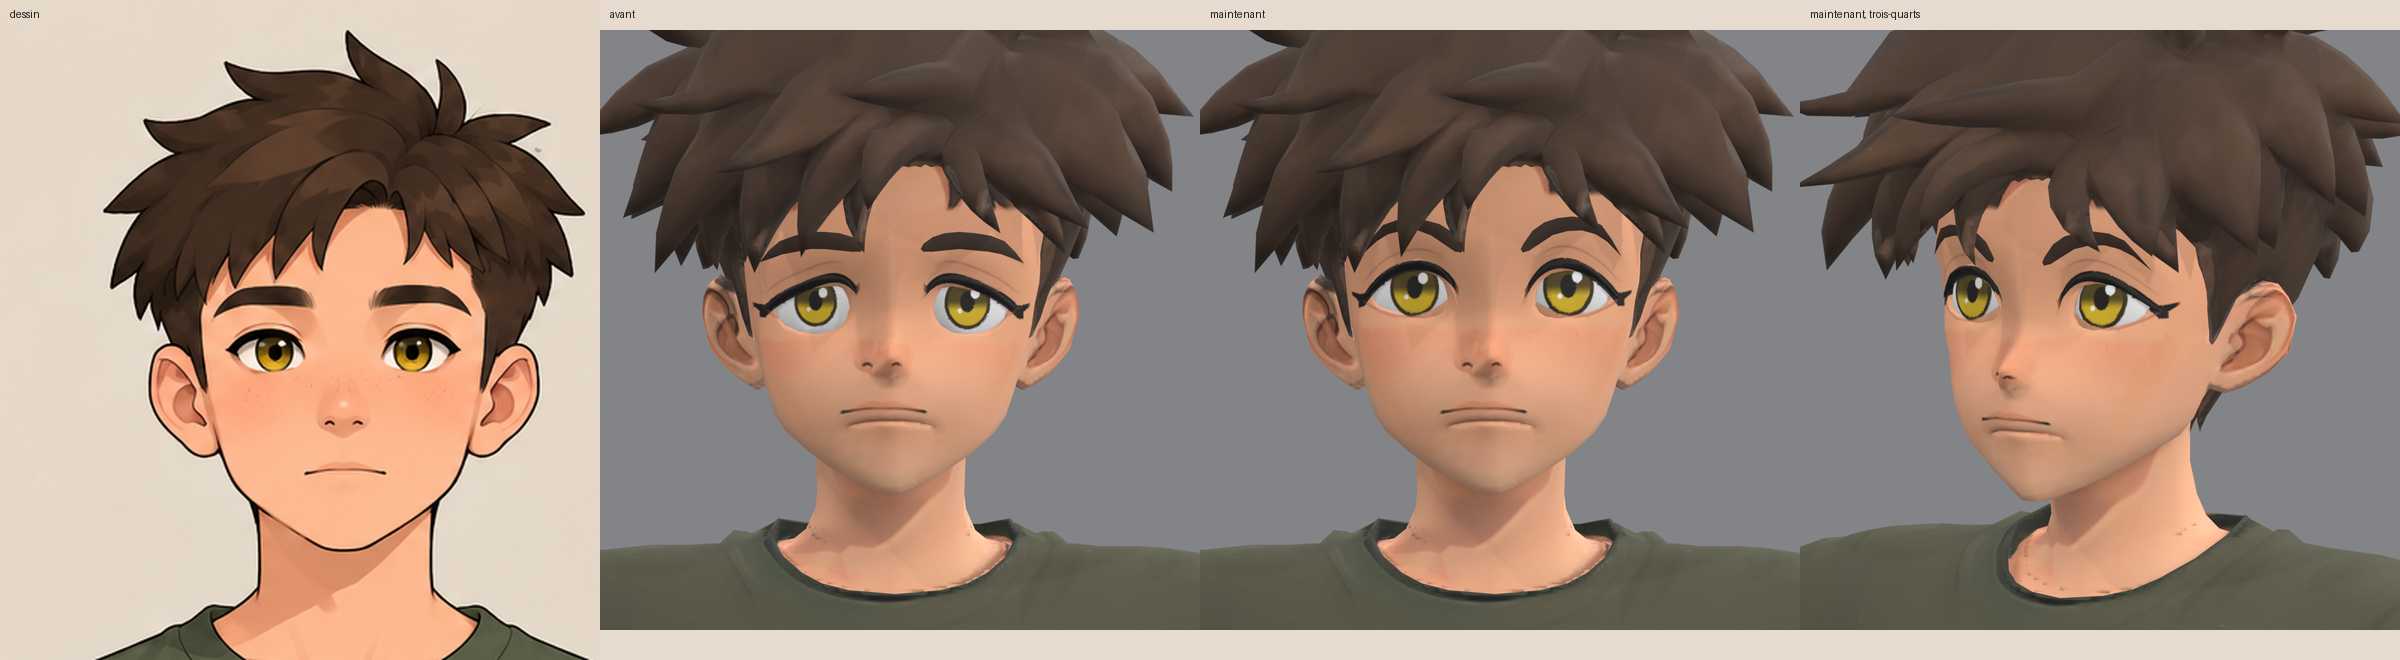
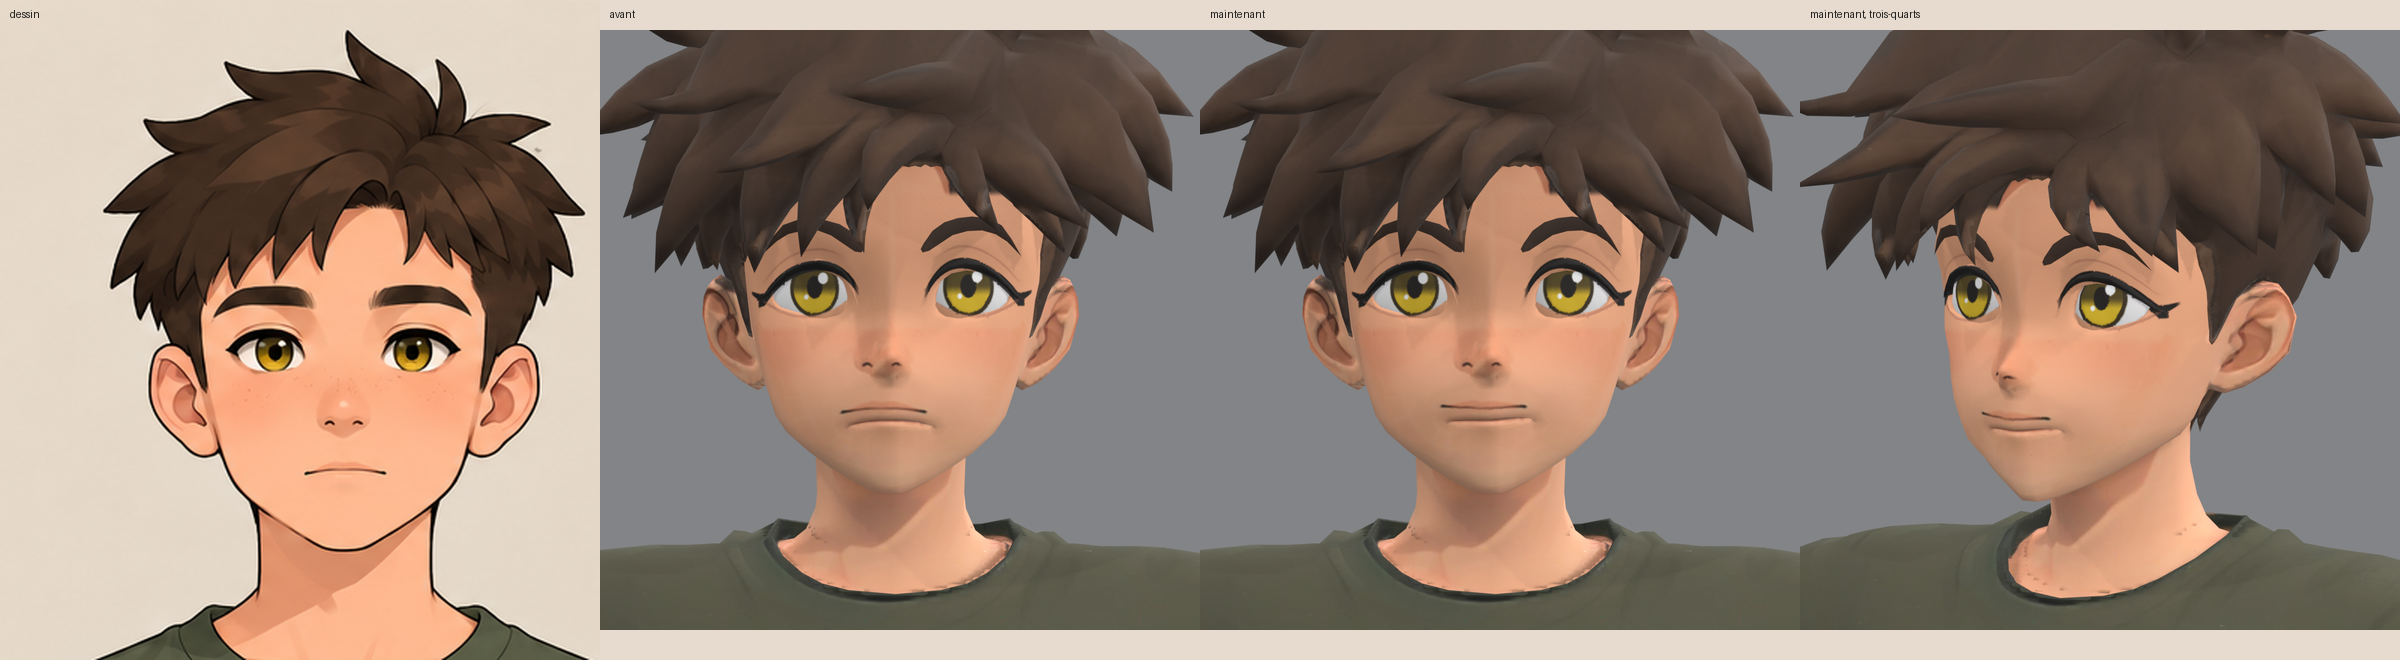
The boy's mouth corners raised: the lower lip and the drawn line no longer droop
Tripo sculpted the lower lip as an arc whose ends drop about 1.6 mm below its middle, and the mouth line projected
from the drawing ends in small downward hooks; together they read as a pout. mouth.py lifts the face around the
mouth corners by up to 2.5 mm, nothing at the middle, fading into the cheeks and above and below the lips, so the lip
is level and the line turns slightly up. mouth_closeup.py renders the mouth for review.

Changed region(s): [[0.3125, 0.303, 0.4375, 0.5152], [0.5938, 0.6061, 0.6562, 0.6364], [0.8438, 0.6364, 0.875, 0.6667]]

diff --git a/games/haras_valley/assets/characters/tools/cleanup_face_hair.py b/games/haras_valley/assets/characters/tools/cleanup_face_hair.py
@@ -4,7 +4,7 @@
     --input model-r03/raw/output_model_url.fbx --references references --output cleanup-r01
 
 Tripo's texture made the face older and tanner than the drawings (darker skin, no blush, small murky eyes, heavy
-brows) and its hair shorter and greyer, and its eyes slope down toward the outside, which reads as sad. Six fixes, textures and vertices only, no retopology:
+brows) and its hair shorter and greyer, and its eyes and mouth droop at the outer ends, which reads as sad. Seven fixes, textures and vertices only, no retopology:
 
 1. Face projection. The front portrait (`--face`, painted by tools/face_portrait.py; without it the face sheet's
    top-left cell) is projected onto the face with the affine map that puts its irises and mouth line (found in the
@@ -26,6 +26,8 @@ brows) and its hair shorter and greyer, and its eyes slope down toward the outsi
 6. Eyes and brows. The projected drawing's eyes do not fit Tripo's sculpted sockets, so eyes.py paints clean cel
    eyes onto the eyeballs inside each reshaped socket's rim, colours the brow strips, clears Tripo's eye paint, gloss
    and normal detail around them, and the cornea discs are removed (see eyes.py).
+7. Mouth corners. The face around the mouth corners rises by up to MOUTH_RISE, nothing at the middle, fading into the
+   cheeks, so the lower lip and the painted line no longer droop at the ends (mouth.py).
 
 The output is a .blend with the four texture maps packed, a GLB beside it and cleanup.json with the measurements.
 """
@@ -41,6 +43,7 @@ import numpy as np
 
 sys.path.insert(0, str(Path(__file__).resolve().parent))   # Blender's --python does not add the script's folder
 import eyes  # noqa: E402
+import mouth  # noqa: E402
 
 SHEET_CELL = (0, 0, 512, 512)          # the front view in the face sheet
 HEAD_Z = 0.27                          # above this: head and neck
@@ -51,6 +54,8 @@ CHIN_FADE = (0.324, 0.338)             # z over which it fades out above the chi
 HAIR_STRETCH = 0.40
 FRINGE_DROOP = 0.35
 EYE_TILT_DEGREES = 8.0                 # outer corners up: from Tripo's 12 degree droop to the drawing's 4
+MOUTH_Z, MOUTH_HALF_WIDTH = 0.338, 0.016    # the mouth's middle and half width (front render of model-r03)
+MOUTH_RISE = 0.0025                    # the corners up by 2.5 mm: from a 1.6 mm droop to slightly up
 EYE_LIFT = 0.20                        # the eye's middle up by this much of its width: the drawing's upper-lid arch                    # strands in front of the skull also drop by this much of their height
 HAIR_LUMINANCE = 0.42                  # below this a warm texel is hair (or brow, or pupil)
 
@@ -333,6 +338,9 @@ def main():
         mesh.vertices[index].co = inverse @ (point + move)
     mesh.update()
 
+    # 7. Mouth corners up: Tripo's lower lip and the projected line both droop at the ends (mouth.py).
+    mouth_record = mouth.corners(mesh, world, parts['face'], MODEL_EYE_MID_Y, MOUTH_Z, MOUTH_HALF_WIDTH, MOUTH_RISE)
+
     # Tripo's cornea discs (tiny pieces floating on each eyeball) shade differently from the painted eye: removed.
     import bmesh
     bm = bmesh.new()
@@ -362,7 +370,7 @@ def main():
         'skin_gain': [round(float(c), 3) for c in skin_gain], 'skin_texels_matched': int(rest.sum()),
         'hair_median_before': [round(float(c), 3) for c in hair_before], 'hair_target': [round(float(c), 3) for c in hair_target],
         'hair_texels_recoloured': int(hair_mask.sum()), 'hair_polygons': len(hair_polygons),
-        'eyes': eye_record, 'eye_tilt': tilt_record, 'eye_lift': lift_record, 'cornea_disc_polygons_removed': len(parts['discs']), 'hair_vertices_moved': len(hair_vertices), 'largest_hair_move': round(largest, 4), 'hair_stretch': HAIR_STRETCH, 'fringe_droop': FRINGE_DROOP,
+        'eyes': eye_record, 'eye_tilt': tilt_record, 'eye_lift': lift_record, 'mouth_corners': mouth_record, 'cornea_disc_polygons_removed': len(parts['discs']), 'hair_vertices_moved': len(hair_vertices), 'largest_hair_move': round(largest, 4), 'hair_stretch': HAIR_STRETCH, 'fringe_droop': FRINGE_DROOP,
     }
     (output / 'cleanup.json').write_text(json.dumps(record, indent=2) + '\n')
     print(json.dumps(record, indent=1), flush=True)

diff --git a/games/haras_valley/assets/characters/tools/mouth.py b/games/haras_valley/assets/characters/tools/mouth.py
@@ -1,0 +1,41 @@
+"""Raise the corners of a Tripo face's mouth.
+
+Used by cleanup_face_hair.py (step 7). Tripo sculpted the boy's lower lip as an arc whose ends drop about 1.6 mm below
+its middle, and the mouth line projected from the drawing ends in small downward hooks: together they read as a pout.
+The drawing's mouth is a short level line. corners() lifts the face's surface around the mouth corners: nothing at
+the middle of the mouth, growing with the square of the distance from it to RISE at the corners, fading out past the
+corners into the cheeks and above and below the lips. Only the face piece moves, only on the front of the head, and
+only vertically, so the painted mouth line bends up with the surface.
+"""
+import math
+
+import numpy as np
+
+
+def smoothstep(edge0, edge1, x):
+    t = min(max((x - edge0) / (edge1 - edge0), 0.0), 1.0)
+    return t * t * (3 - 2 * t)
+
+
+def corners(mesh, world, face_polygons, centre_y, centre_z, half_width, rise):
+    """Lift the mouth corners by `rise` metres; returns a record of what moved."""
+    from mathutils import Vector
+    inverse = world.inverted()
+    vertices = {v for i in face_polygons for v in mesh.polygons[i].vertices}
+    moved, largest = 0, 0.0
+    for index in vertices:
+        point = world @ mesh.vertices[index].co
+        if point.x < 0:
+            continue
+        u = abs(point.y - centre_y) / half_width
+        across = min(u, 1.0) ** 2 * smoothstep(1.9, 1.15, u)       # 0 at the middle, 1 at the corners, 0 in the cheek
+        down = smoothstep(.013, .005, abs(point.z - centre_z))     # the lips and just around them
+        front = smoothstep(0.0, .02, point.x)
+        dz = rise * across * down * front
+        if dz > 1e-6:
+            mesh.vertices[index].co = inverse @ Vector((point.x, point.y, point.z + dz))
+            moved += 1
+            largest = max(largest, dz)
+    mesh.update()
+    return {'centre': [round(centre_y, 4), round(centre_z, 4)], 'half_width_mm': round(half_width * 1000, 1),
+            'rise_mm': round(rise * 1000, 2), 'vertices_moved': moved, 'largest_move_mm': round(largest * 1000, 2)}

diff --git a/games/haras_valley/assets/characters/tools/mouth_closeup.py b/games/haras_valley/assets/characters/tools/mouth_closeup.py
@@ -1,0 +1,18 @@
+"""Render the mouth at 1400x900, front, three-quarter and clay, from a review blend (review_model.py).
+
+/Applications/Blender.app/Contents/MacOS/Blender -b --python games/haras_valley/assets/characters/tools/mouth_closeup.py -- review.blend mouth.png
+Writes mouth-front.png, mouth-three-quarter.png, mouth-clay.png and mouth-clay-low.png beside the given name.
+"""
+import bpy, sys
+from mathutils import Vector
+path, out = sys.argv[sys.argv.index('--')+1:][:2]
+bpy.ops.wm.open_mainfile(filepath=path)
+scene=bpy.context.scene; cam=scene.camera; cam.data.ortho_scale=0.09
+scene.render.resolution_x=1400; scene.render.resolution_y=900
+clay=bpy.data.materials.new('mouth clay'); clay.use_nodes=True
+clay.node_tree.nodes['Principled BSDF'].inputs['Base Color'].default_value=(.6,.62,.66,1)
+centre=Vector((0,-0.004,0.335))
+for name,direction,mat in [('front',(1,0,0),None),('three-quarter',(1,.65,.12),None),('clay',(1,0,0),clay),('clay-low',(1,0,-.35),clay)]:
+    cam.location=centre+Vector(direction).normalized()*3; cam.rotation_euler=(centre-cam.location).to_track_quat('-Z','Y').to_euler()
+    bpy.context.view_layer.material_override=mat
+    scene.render.filepath=out.replace('.png',f'-{name}.png'); bpy.ops.render.render(write_still=True)

diff --git a/games/haras_valley/assets/characters/boy/README.md b/games/haras_valley/assets/characters/boy/README.md
@@ -55,7 +55,9 @@ Tripo's eyes also sloped down toward the outside and sat low between their corne
 eyes are painted, each eye region turns 8 degrees outer corner up and its middle rises by 0.20 of its width with the
 corners pinned (`eyes.tilt`, `eyes.lift`), so the upper lid arches as drawn; the lower lid is painted 0.23 eye widths
 below the corners, as in the drawing, and the eyeball below it is painted as skin.
-`eyes-closeup-front.png` and `eyes-closeup-three-quarter.png` show the result up close. `face_closeup.py` renders the face
+The mouth drooped the same way: Tripo's lower lip curved down at the ends and the projected line ended in small
+hooks. `mouth.py` raises the face around the mouth corners by 2.5 mm, nothing at the middle, fading into the cheeks.
+`eyes-closeup-front.png`, `eyes-closeup-three-quarter.png` and `mouth-closeup-front.png` show the result up close. `face_closeup.py` renders the face
 at 1200 px from a review blend; `compare-face.png` shows the sheet, Tripo's face, the cleaned face and its
 three-quarter. For a crisper source than the 512 px sheet cell, `games/haras_valley/tools/face_portrait.py` paints a
 large front portrait with Sunburst (needs `OPENAI_API_KEY`) that the cleanup takes with `--face`.
